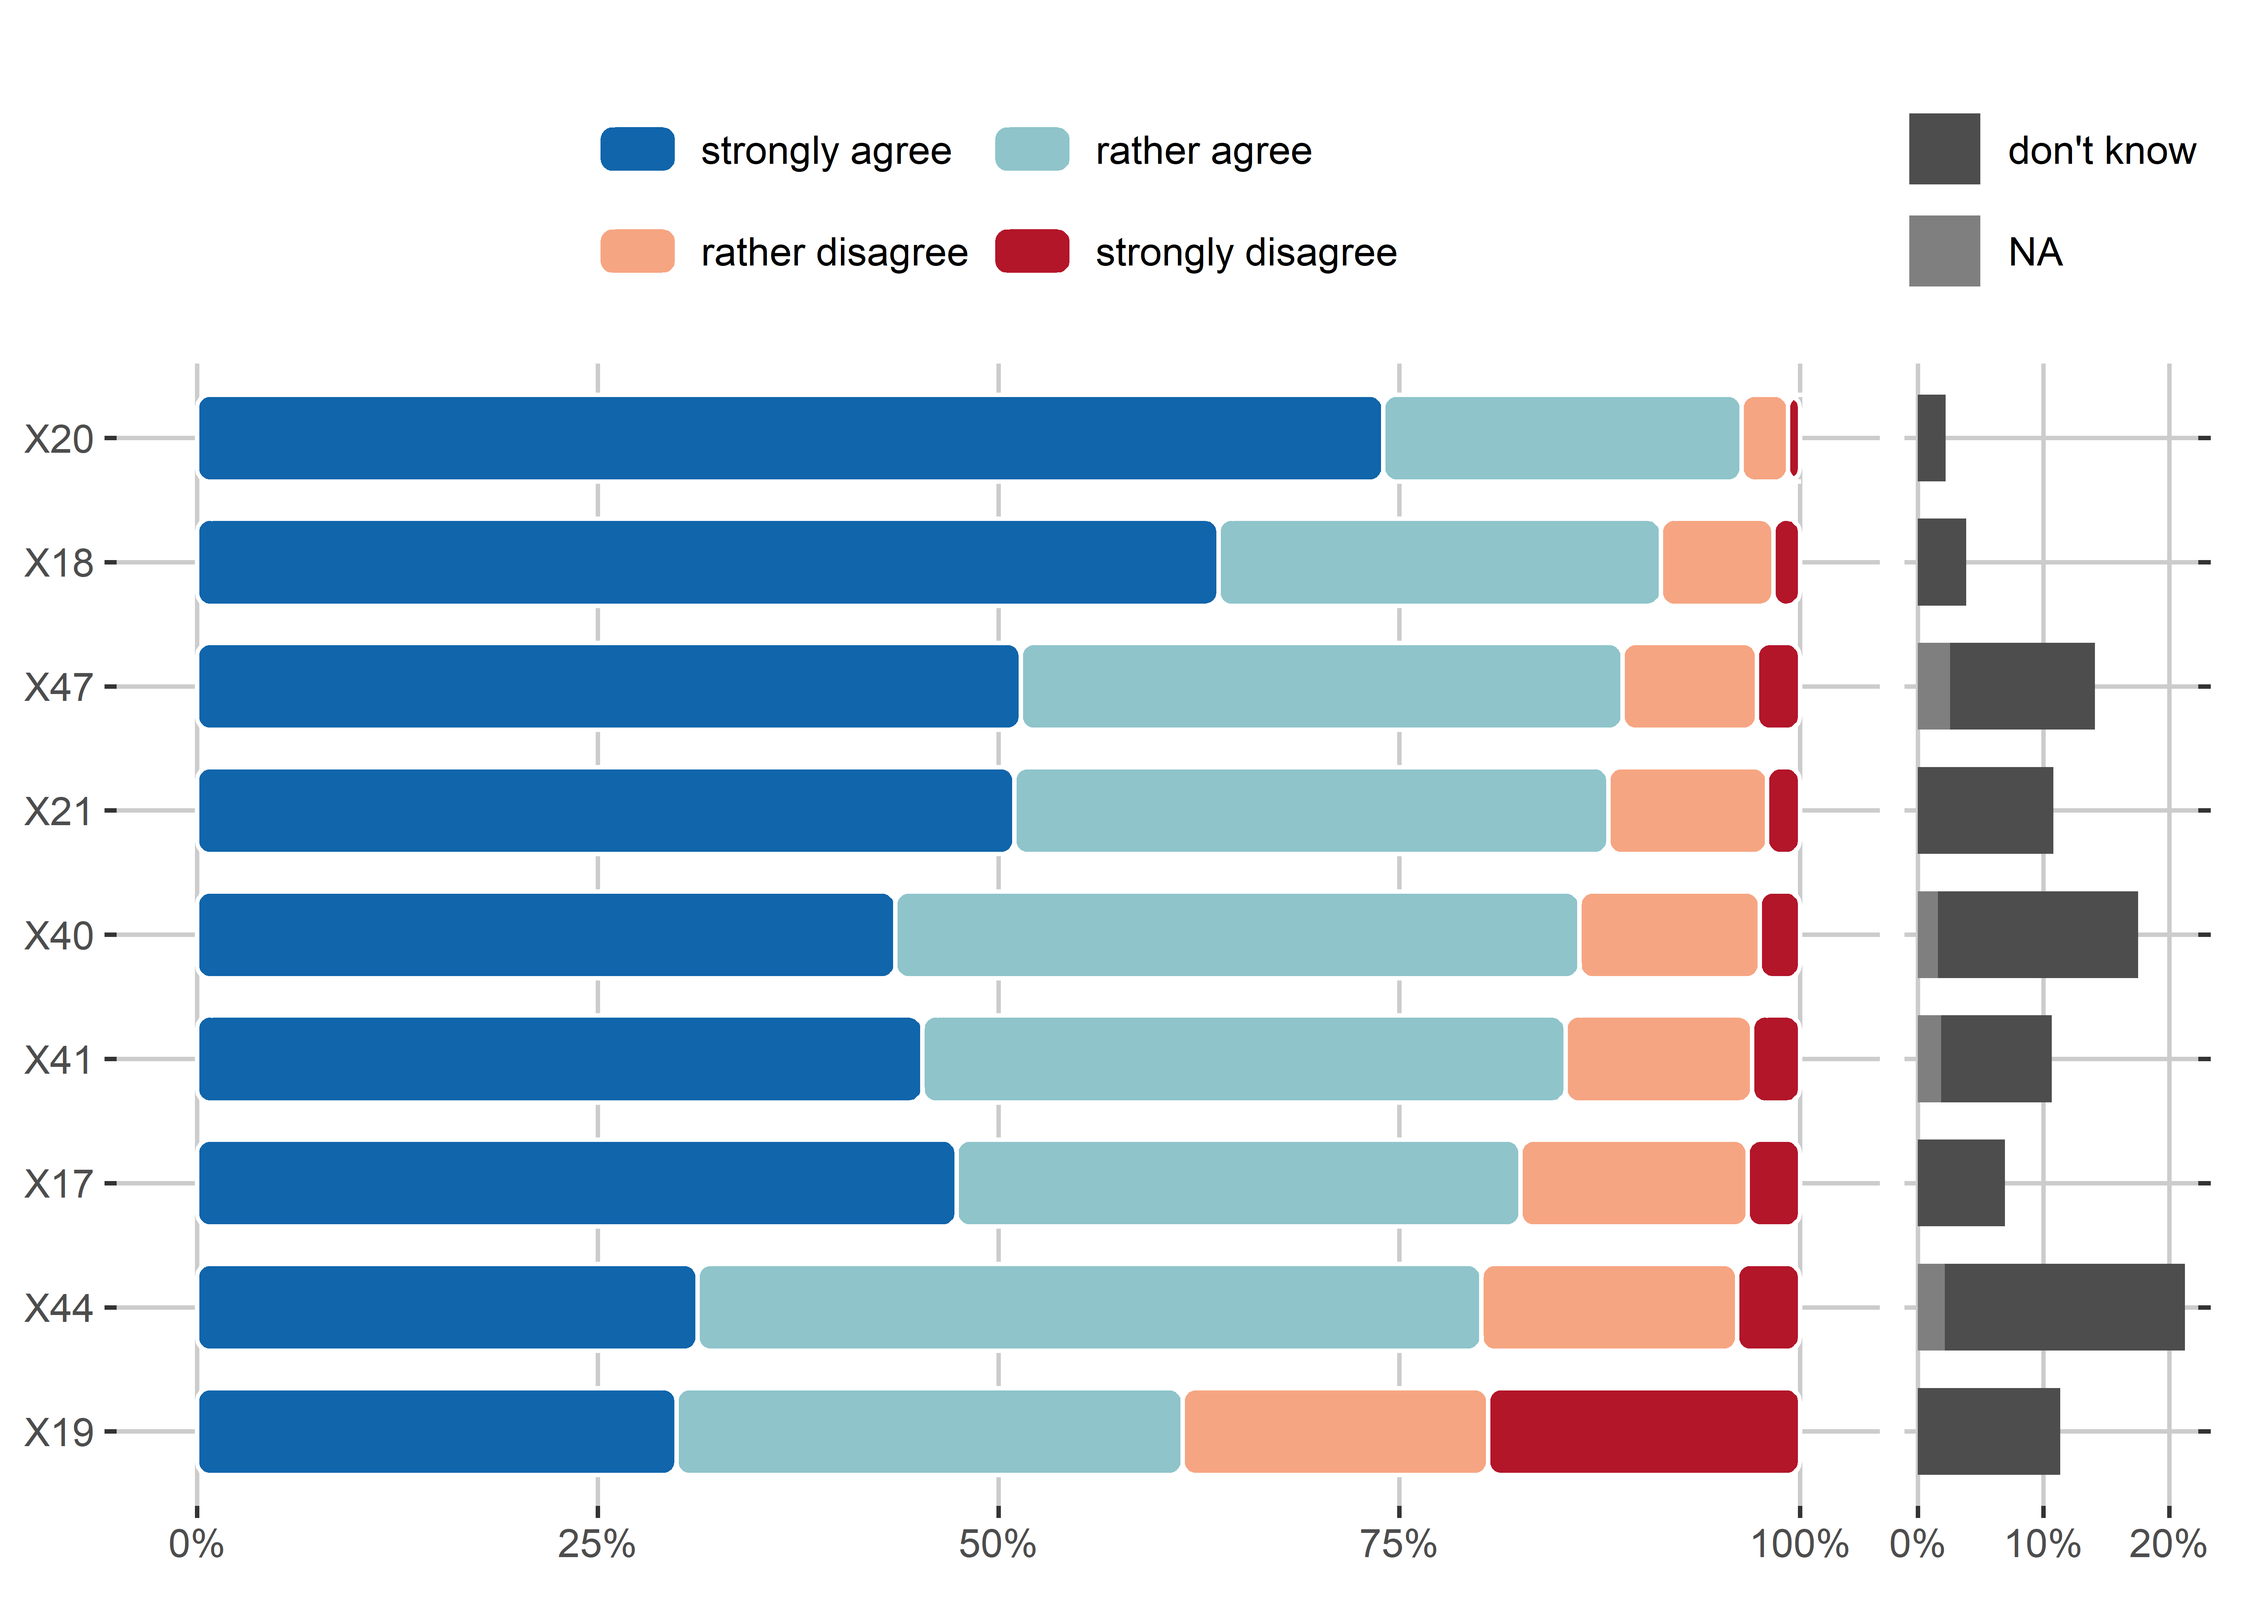
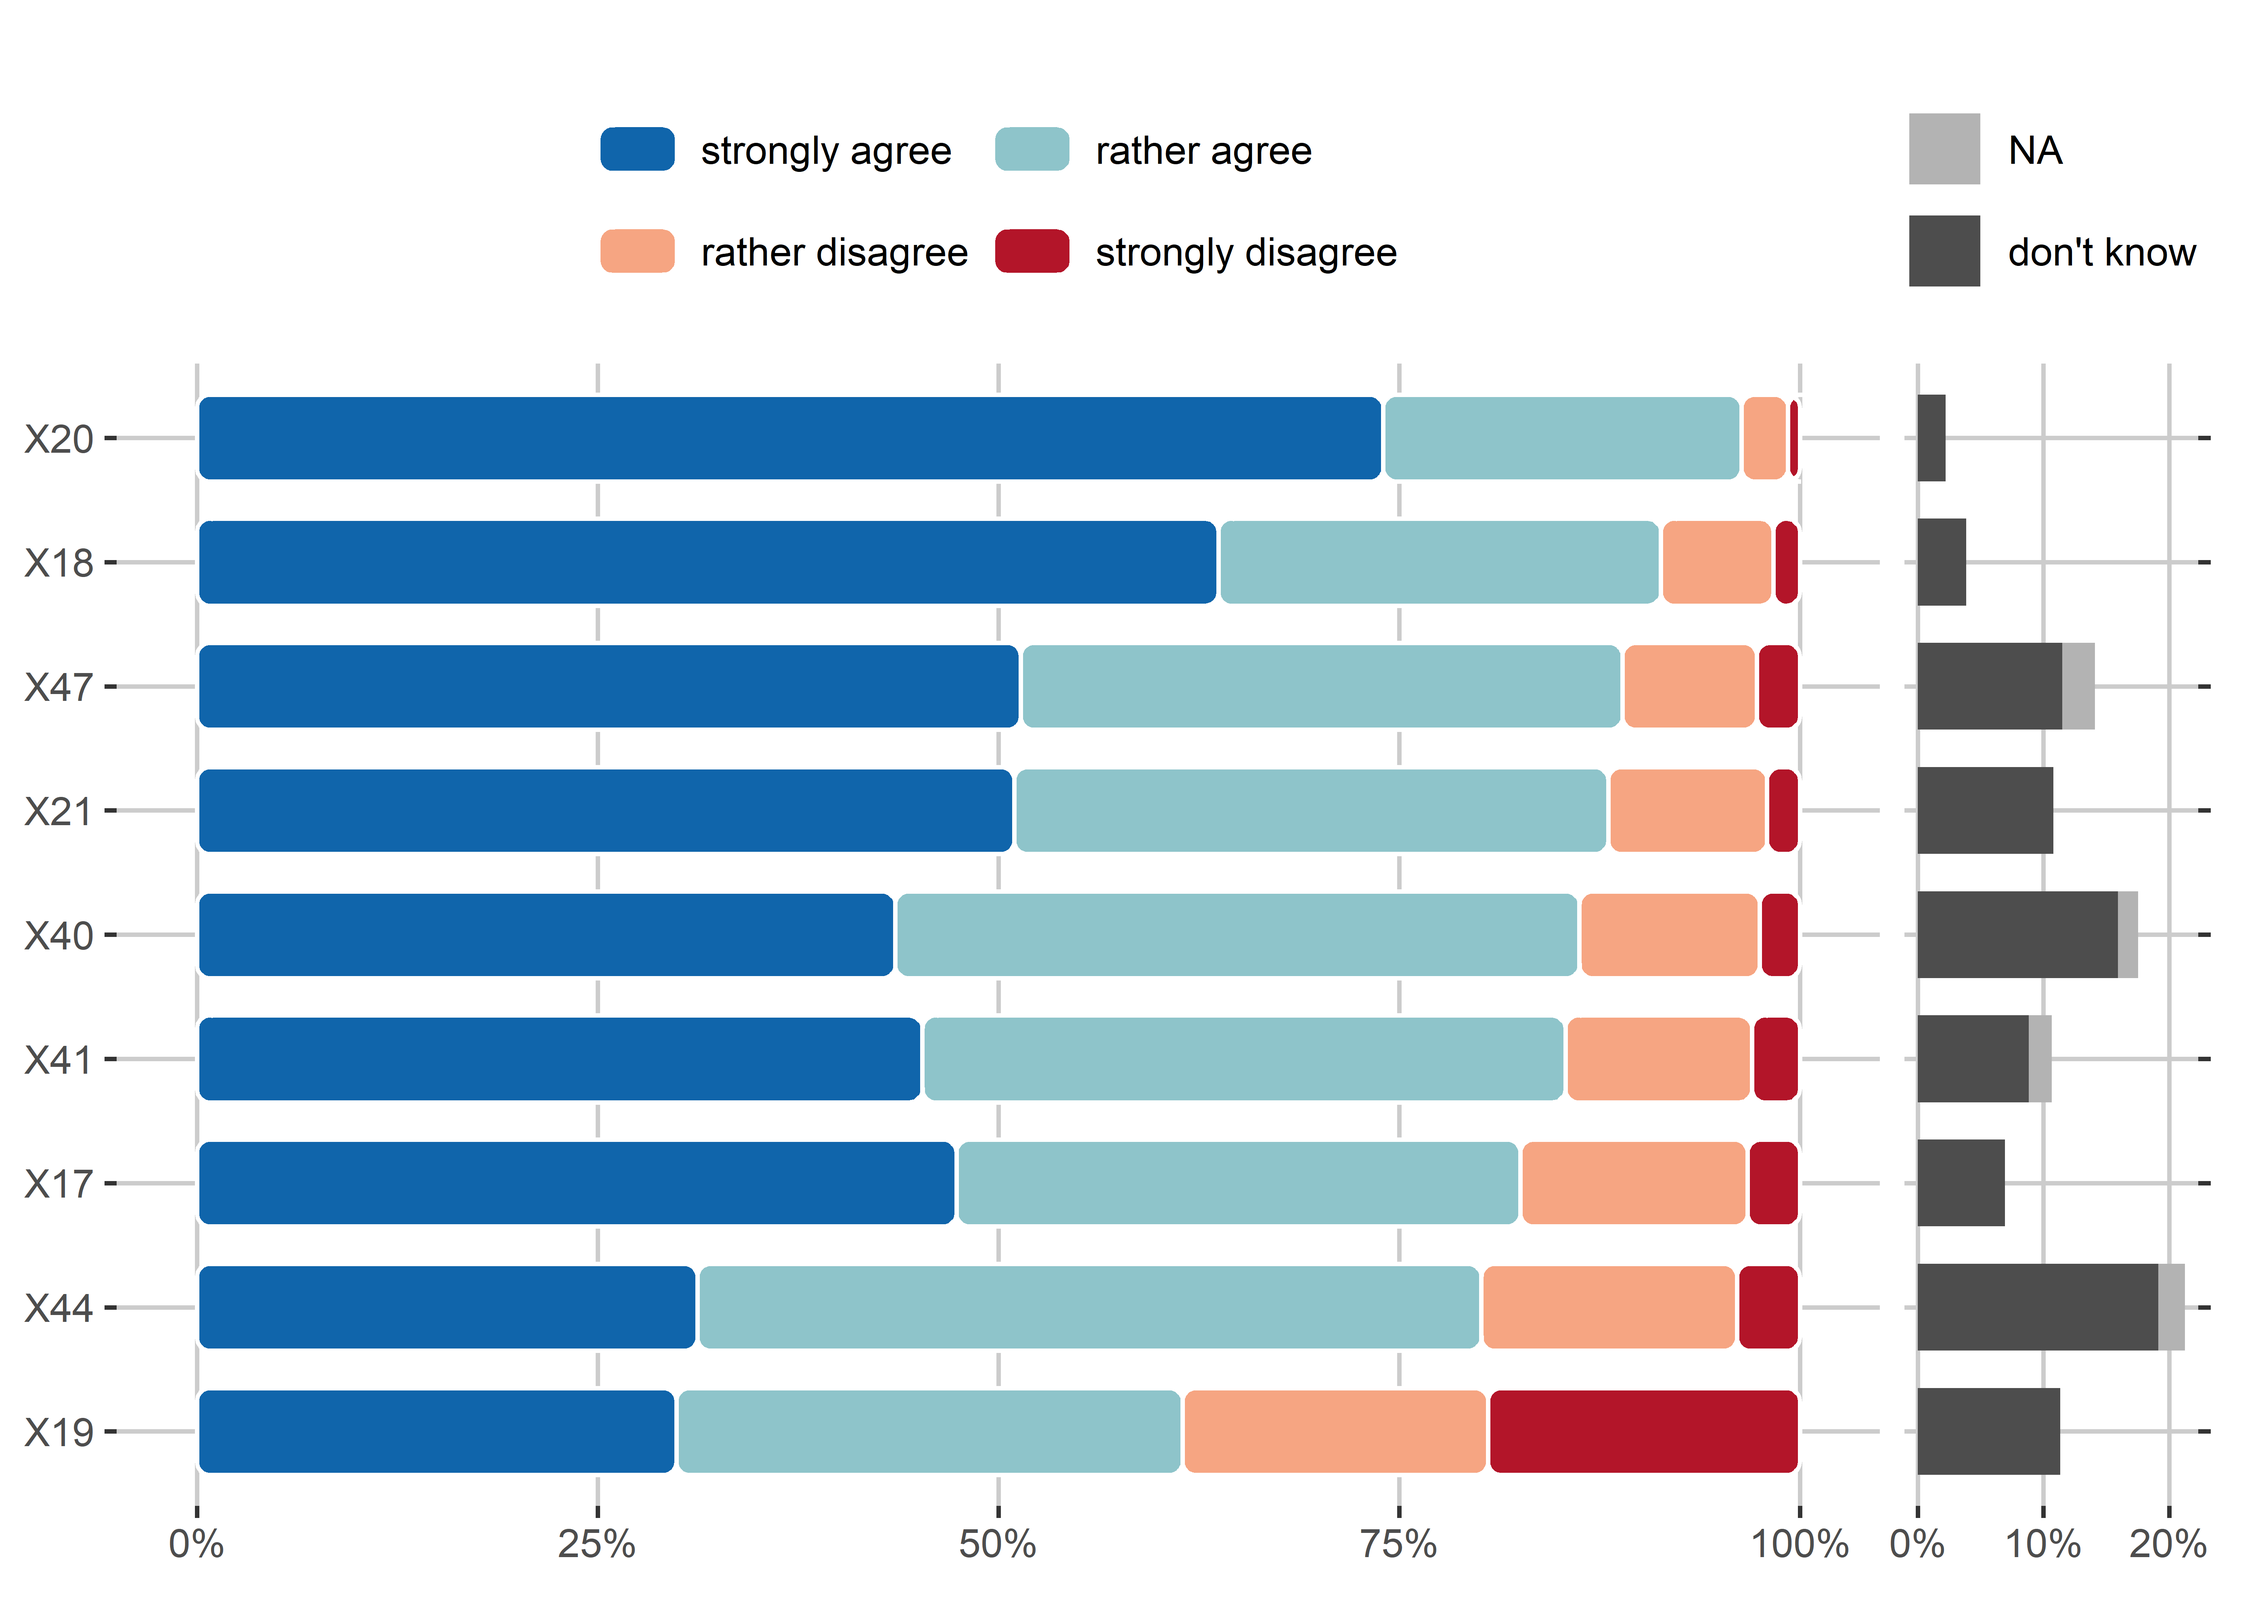
Adapt visualization of NA responses

diff --git a/analysis_notebooks/survey_analysis.html b/analysis_notebooks/survey_analysis.html
@@ -506,19 +506,24 @@ pre > code.sourceCode > span > a:first-child::before { text-decoration: underlin
 <div class="cell">
 <div class="sourceCode cell-code" id="cb15"><pre class="sourceCode r code-with-copy"><code class="sourceCode r"><span id="cb15-1"><a href="#cb15-1" aria-hidden="true" tabindex="-1"></a>plots <span class="ot">&lt;-</span> <span class="fu">list</span>()</span>
 <span id="cb15-2"><a href="#cb15-2" aria-hidden="true" tabindex="-1"></a></span>
-<span id="cb15-3"><a href="#cb15-3" aria-hidden="true" tabindex="-1"></a>plots_list <span class="ot">&lt;-</span> <span class="fu">list</span>()</span>
-<span id="cb15-4"><a href="#cb15-4" aria-hidden="true" tabindex="-1"></a><span class="cf">for</span> (q <span class="cf">in</span> raia) {</span>
-<span id="cb15-5"><a href="#cb15-5" aria-hidden="true" tabindex="-1"></a>  plot <span class="ot">&lt;-</span> <span class="fu">plot_agreement_development</span>(df, <span class="at">question =</span> q, <span class="at">legend =</span> <span class="cn">FALSE</span>)</span>
-<span id="cb15-6"><a href="#cb15-6" aria-hidden="true" tabindex="-1"></a>  plots[[q]] <span class="ot">&lt;-</span> plot</span>
-<span id="cb15-7"><a href="#cb15-7" aria-hidden="true" tabindex="-1"></a>}</span>
-<span id="cb15-8"><a href="#cb15-8" aria-hidden="true" tabindex="-1"></a></span>
-<span id="cb15-9"><a href="#cb15-9" aria-hidden="true" tabindex="-1"></a>grid <span class="ot">&lt;-</span> <span class="fu">grid.arrange</span>(<span class="at">grobs =</span> plots, <span class="at">ncol =</span> <span class="dv">3</span>)</span></code><button title="Copy to Clipboard" class="code-copy-button"><i class="bi"></i></button></pre></div>
+<span id="cb15-3"><a href="#cb15-3" aria-hidden="true" tabindex="-1"></a><span class="cf">for</span> (q <span class="cf">in</span> raia) {</span>
+<span id="cb15-4"><a href="#cb15-4" aria-hidden="true" tabindex="-1"></a>  plot <span class="ot">&lt;-</span> <span class="fu">plot_agreement_development</span>(df, <span class="at">question =</span> q, <span class="at">legend =</span> <span class="cn">FALSE</span>)</span>
+<span id="cb15-5"><a href="#cb15-5" aria-hidden="true" tabindex="-1"></a>  plots[[q]] <span class="ot">&lt;-</span> plot</span>
+<span id="cb15-6"><a href="#cb15-6" aria-hidden="true" tabindex="-1"></a>}</span>
+<span id="cb15-7"><a href="#cb15-7" aria-hidden="true" tabindex="-1"></a></span>
+<span id="cb15-8"><a href="#cb15-8" aria-hidden="true" tabindex="-1"></a>grid <span class="ot">&lt;-</span> <span class="fu">grid.arrange</span>(<span class="at">grobs =</span> plots, <span class="at">ncol =</span> <span class="dv">3</span>)</span></code><button title="Copy to Clipboard" class="code-copy-button"><i class="bi"></i></button></pre></div>
 <div class="cell-output-display">
 <p><img src="survey_analysis_files/figure-html/warning%20-%20false-1.png" class="img-fluid" width="2800"></p>
 </div>
 </div>
 <div class="cell">
-<div class="sourceCode cell-code" id="cb16"><pre class="sourceCode r code-with-copy"><code class="sourceCode r"><span id="cb16-1"><a href="#cb16-1" aria-hidden="true" tabindex="-1"></a>knitr<span class="sc">::</span><span class="fu">kable</span>(var_overview[var_overview<span class="sc">$</span>var_id <span class="sc">%in%</span> raif, <span class="dv">1</span><span class="sc">:</span><span class="dv">2</span>])</span></code><button title="Copy to Clipboard" class="code-copy-button"><i class="bi"></i></button></pre></div>
+<div class="sourceCode cell-code" id="cb16"><pre class="sourceCode r code-with-copy"><code class="sourceCode r"><span id="cb16-1"><a href="#cb16-1" aria-hidden="true" tabindex="-1"></a><span class="fu">plot_agreement_development</span>(df, <span class="st">"X44"</span>, <span class="at">legend =</span> <span class="cn">TRUE</span>)</span></code><button title="Copy to Clipboard" class="code-copy-button"><i class="bi"></i></button></pre></div>
+<div class="cell-output-display">
+<p><img src="survey_analysis_files/figure-html/unnamed-chunk-17-1.png" class="img-fluid" width="2800"></p>
+</div>
+</div>
+<div class="cell">
+<div class="sourceCode cell-code" id="cb17"><pre class="sourceCode r code-with-copy"><code class="sourceCode r"><span id="cb17-1"><a href="#cb17-1" aria-hidden="true" tabindex="-1"></a>knitr<span class="sc">::</span><span class="fu">kable</span>(var_overview[var_overview<span class="sc">$</span>var_id <span class="sc">%in%</span> raif, <span class="dv">1</span><span class="sc">:</span><span class="dv">2</span>])</span></code><button title="Copy to Clipboard" class="code-copy-button"><i class="bi"></i></button></pre></div>
 <div class="cell-output-display">
 <table class="table table-sm table-striped small">
 <colgroup>
@@ -561,17 +566,16 @@ pre > code.sourceCode > span > a:first-child::before { text-decoration: underlin
 </div>
 </div>
 <div class="cell">
-<div class="sourceCode cell-code" id="cb17"><pre class="sourceCode r code-with-copy"><code class="sourceCode r"><span id="cb17-1"><a href="#cb17-1" aria-hidden="true" tabindex="-1"></a>plots <span class="ot">&lt;-</span> <span class="fu">list</span>()</span>
-<span id="cb17-2"><a href="#cb17-2" aria-hidden="true" tabindex="-1"></a></span>
-<span id="cb17-3"><a href="#cb17-3" aria-hidden="true" tabindex="-1"></a>plots_list <span class="ot">&lt;-</span> <span class="fu">list</span>()</span>
-<span id="cb17-4"><a href="#cb17-4" aria-hidden="true" tabindex="-1"></a><span class="cf">for</span> (q <span class="cf">in</span> raif) {</span>
-<span id="cb17-5"><a href="#cb17-5" aria-hidden="true" tabindex="-1"></a>  plot <span class="ot">&lt;-</span> <span class="fu">plot_frequency_development</span>(df, <span class="at">question =</span> q, <span class="at">legend =</span> <span class="cn">FALSE</span>)</span>
-<span id="cb17-6"><a href="#cb17-6" aria-hidden="true" tabindex="-1"></a>  plots[[q]] <span class="ot">&lt;-</span> plot</span>
-<span id="cb17-7"><a href="#cb17-7" aria-hidden="true" tabindex="-1"></a>}</span>
-<span id="cb17-8"><a href="#cb17-8" aria-hidden="true" tabindex="-1"></a></span>
-<span id="cb17-9"><a href="#cb17-9" aria-hidden="true" tabindex="-1"></a>grid <span class="ot">&lt;-</span> <span class="fu">grid.arrange</span>(<span class="at">grobs =</span> plots, <span class="at">ncol =</span> <span class="dv">3</span>)</span></code><button title="Copy to Clipboard" class="code-copy-button"><i class="bi"></i></button></pre></div>
+<div class="sourceCode cell-code" id="cb18"><pre class="sourceCode r code-with-copy"><code class="sourceCode r"><span id="cb18-1"><a href="#cb18-1" aria-hidden="true" tabindex="-1"></a>plots <span class="ot">&lt;-</span> <span class="fu">list</span>()</span>
+<span id="cb18-2"><a href="#cb18-2" aria-hidden="true" tabindex="-1"></a></span>
+<span id="cb18-3"><a href="#cb18-3" aria-hidden="true" tabindex="-1"></a><span class="cf">for</span> (q <span class="cf">in</span> raif) {</span>
+<span id="cb18-4"><a href="#cb18-4" aria-hidden="true" tabindex="-1"></a>  plot <span class="ot">&lt;-</span> <span class="fu">plot_frequency_development</span>(df, <span class="at">question =</span> q, <span class="at">legend =</span> <span class="cn">FALSE</span>)</span>
+<span id="cb18-5"><a href="#cb18-5" aria-hidden="true" tabindex="-1"></a>  plots[[q]] <span class="ot">&lt;-</span> plot</span>
+<span id="cb18-6"><a href="#cb18-6" aria-hidden="true" tabindex="-1"></a>}</span>
+<span id="cb18-7"><a href="#cb18-7" aria-hidden="true" tabindex="-1"></a></span>
+<span id="cb18-8"><a href="#cb18-8" aria-hidden="true" tabindex="-1"></a>grid <span class="ot">&lt;-</span> <span class="fu">grid.arrange</span>(<span class="at">grobs =</span> plots, <span class="at">ncol =</span> <span class="dv">3</span>)</span></code><button title="Copy to Clipboard" class="code-copy-button"><i class="bi"></i></button></pre></div>
 <div class="cell-output-display">
-<p><img src="survey_analysis_files/figure-html/unnamed-chunk-18-1.png" class="img-fluid" width="2800"></p>
+<p><img src="survey_analysis_files/figure-html/unnamed-chunk-19-1.png" class="img-fluid" width="2800"></p>
 </div>
 </div>
 </section>

diff --git a/analysis_notebooks/sample_characteristics.html b/analysis_notebooks/sample_characteristics.html
@@ -924,6 +924,12 @@ ul.task-list li input[type="checkbox"] {
 <td style="text-align: right;">543</td>
 <td style="text-align: right;">83</td>
 </tr>
+<tr class="odd">
+<td style="text-align: left;">NA</td>
+<td style="text-align: right;">0</td>
+<td style="text-align: right;">0</td>
+<td style="text-align: right;">0</td>
+</tr>
 </tbody>
 </table>
 
@@ -940,7 +946,7 @@ ul.task-list li input[type="checkbox"] {
 </div>
 </div>
 <p>When investigated in relation to response time, the most notable deviation in distribution can be seen in those not answering the clarity question or answering “don’t know” to this question. These respondents tended to finish the survey more quickly.</p>
-<p>However, the number of respondents who took less than three minutes for the survey and indicated low clarity (or did not answer the clarity question) only lies at 88.</p>
+<p>However, the number of respondents who took less than three minutes for the survey and indicated low clarity (or did not answer the clarity question) only lies at 113.</p>
 </section>
 <section id="dont-know-answers" class="level2">
 <h2 class="anchored" data-anchor-id="dont-know-answers">“Don’t know” Answers</h2>
@@ -966,7 +972,13 @@ ul.task-list li input[type="checkbox"] {
 </section>
 <section id="na-answers" class="level2">
 <h2 class="anchored" data-anchor-id="na-answers">NA answers</h2>
-<p>Only certain questions could be skipped. Of the content questions, only items X38 to X52 were not mandatory. Therefore a maximum of 15 responses can be missing per person. Participants skipped a mean of 0.3 questions (<em>SD</em> = 1.69), ranging from 0 to 15 missings. Number of NAs is correlated with total response time with a Kendall correlation coefficient of -0.07. In total, missing responses are very rare within the data set.</p>
+<div class="cell">
+<div class="cell-output cell-output-stderr">
+<pre><code>Warning in cor(df$duration, df$nas, method = "kendall"): the standard deviation
+is zero</code></pre>
+</div>
+</div>
+<p>Only certain questions could be skipped. Of the content questions, only items X38 to X52 were not mandatory. Therefore a maximum of 15 responses can be missing per person. Participants skipped a mean of 0 questions (<em>SD</em> = 0), ranging from 0 to 0 missings. Number of NAs is correlated with total response time with a Kendall correlation coefficient of NA. In total, missing responses are very rare within the data set.</p>
 <div class="cell">
 <div class="cell-output-display">
 <p><img src="sample_characteristics_files/figure-html/unnamed-chunk-26-1.png" class="img-fluid" width="672"></p>
